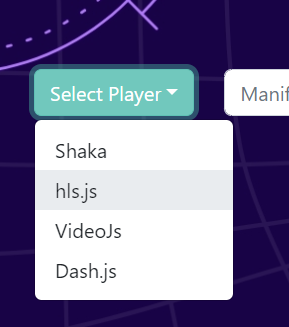
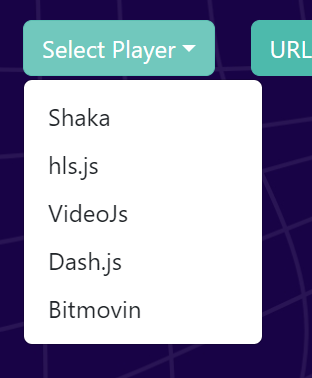
updated the demo app README so it includes the bitmovin player and the new dropdown with the already uploaded video manifests.

diff --git a/packages/cmcd-validator-demo-app/README.md b/packages/cmcd-validator-demo-app/README.md
@@ -29,9 +29,18 @@ To validate CMCD requests using this app, follow these steps:
    
 ![](images/select-player.png)
 
-2. Enter the manifest URL and click "Start" to start playback.
-   
+2. To initiate playback, there are two options:
+
+- Enter the manifest URL: If you have a specific URL in mind, simply type or paste it into the designated field.
+
 ![](images/content-playing.png)
+
+- Choose from the dropdown: Alternatively, select a pre-defined URL from the provided dropdown menu.
+
+![](images/url-dropdown.png)
+
+Once you've entered the manifest URL or made a selection from the dropdown, click the "Start" button to begin playback.
+
 > **_NOTE:_** The requests made by the player will be displayed in the panel on the right-hand side. The color of the request indicates its validation status: green for valid, red for invalid, and yellow for warnings.
 
 3. To view the validation output of a request, click on it and scroll down.
